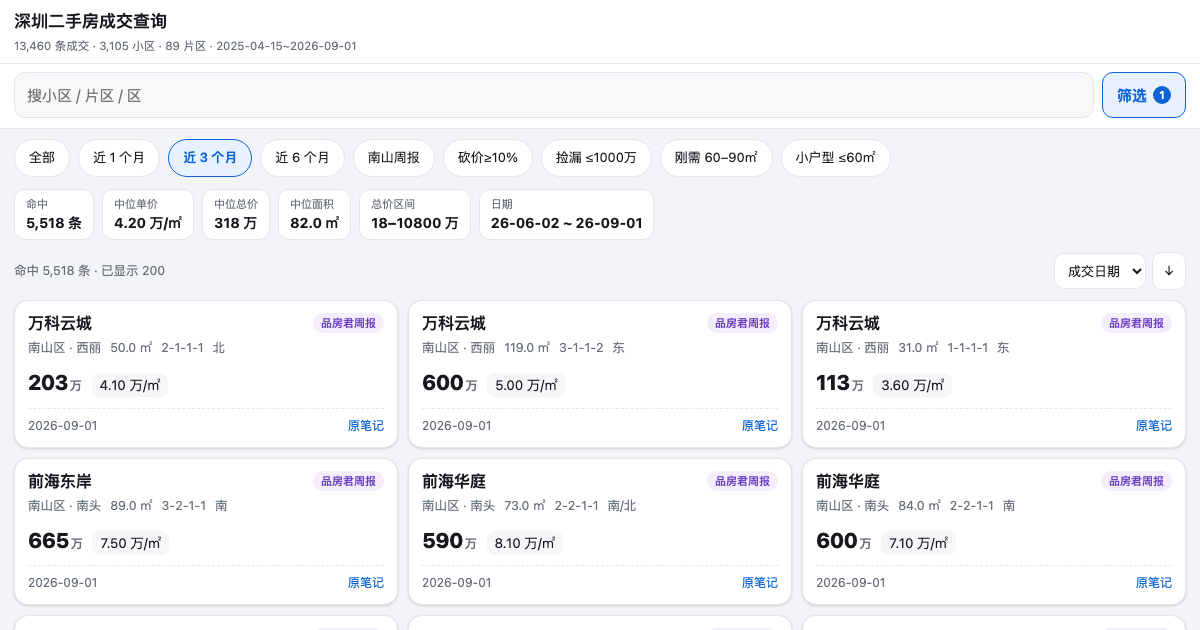
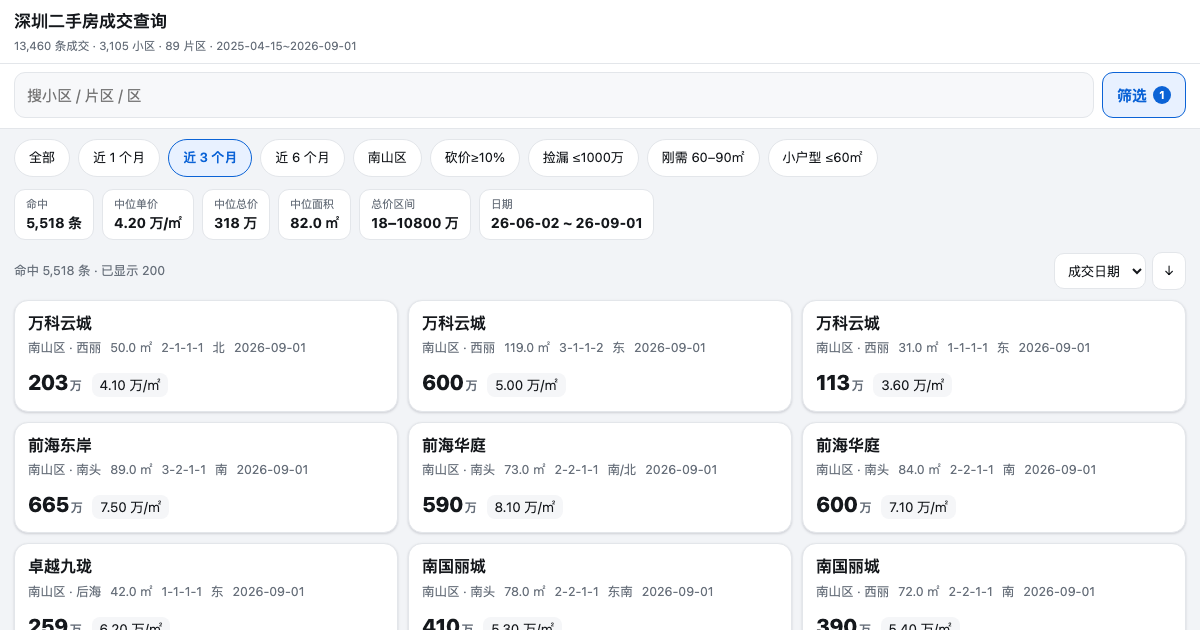
发布成交查询站点（13460 条记录）
数据来源与生成链路见 README.md；站点内容由 tools/xhs_pipeline/build_web.py 生成。

diff --git a/core.js b/core.js
@@ -23,7 +23,7 @@ export function roomsOf(layout) {
 }
 
 export const DEFAULTS = {
-  q: '', districts: [], area_groups: [], sources: [], rooms: [], facings: [],
+  q: '', districts: [], area_groups: [], rooms: [], facings: [],
   dateFrom: '', dateTo: '',
   areaMin: null, areaMax: null, totalMin: null, totalMax: null,
   unitMin: null, unitMax: null, builtMin: null, builtMax: null,
@@ -40,7 +40,7 @@ function passes(r, f, dict, roomCache) {
   if (f.onlyDupCandidates && !(r[C.dup_candidates] > 0)) return false;
   if (f.districts.length && !f.districts.includes(r[C.district])) return false;
   if (f.area_groups.length && !f.area_groups.includes(r[C.area_group])) return false;
-  if (f.sources.length && !f.sources.includes(r[C.source])) return false;
+  if (f.sources && f.sources.length && !f.sources.includes(r[C.source])) return false;
   if (f.facings.length) {   // facings 存的是方位位掩码（0=未标注），组合朝向按位命中
     const m = (dict.facing_mask && dict.facing_mask[r[C.facing]]) || 0;
     const orBits = f.facings.reduce((a, b) => a | b, 0);
@@ -127,17 +127,14 @@ export function summarize(rows, dict) {
   if (!rows.length) {
     return { count: 0, medianUnit: null, meanUnit: null, medianArea: null, minArea: null, maxArea: null,
       medianTotal: null, minTotal: null, maxTotal: null, dateFrom: null, dateTo: null,
-      bySource: {}, byDistrict: {} };
+      byDistrict: {} };
   }
   const units = rows.map((r) => r[C.unit]);
   const areas = rows.map((r) => r[C.area]);
   const totals = rows.map((r) => r[C.total]);
   const dates = rows.map((r) => r[C.date]).filter(Boolean).sort();
-  const bySource = {};
   const byDistrict = {};
   for (const r of rows) {
-    const s = dict.source[r[C.source]] || '-';
-    bySource[s] = (bySource[s] || 0) + 1;
     const d = dict.district[r[C.district]] || '-';
     byDistrict[d] = (byDistrict[d] || 0) + 1;
   }
@@ -147,12 +144,12 @@ export function summarize(rows, dict) {
     medianArea: median(areas), minArea: extent(areas, Math.min), maxArea: extent(areas, Math.max),
     medianTotal: median(totals), minTotal: extent(totals, Math.min), maxTotal: extent(totals, Math.max),
     dateFrom: dates[0] || null, dateTo: dates[dates.length - 1] || null,
-    bySource, byDistrict,
+    byDistrict,
   };
 }
 
-const CSV_HEAD = ['成交日期', '来源', '统计期', '行政区', '片区', '小区', '建成年份', '户型',
-  '面积(㎡)', '总价(万)', '单价(万/㎡)', '谈价率(%)', '朝向', '重复标记', '来源笔记'];
+const CSV_HEAD = ['成交日期', '统计期', '行政区', '片区', '小区', '建成年份', '户型',
+  '面积(㎡)', '总价(万)', '单价(万/㎡)', '谈价率(%)', '朝向', '重复标记'];
 
 export function toCSV(rows, dict) {
   const esc = (v) => {
@@ -162,14 +159,13 @@ export function toCSV(rows, dict) {
   const lines = [CSV_HEAD.join(',')];
   for (const r of rows) {
     const conf = dict.dup_conf[r[C.dup_conf]];
-    const mark = [conf ? `与另一来源重复(${conf})` : '', r[C.dup_candidates] > 0 ? `可能重复x${r[C.dup_candidates]}` : '']
+    const mark = [conf ? `疑似同一笔重复(${conf})` : '', r[C.dup_candidates] > 0 ? `可能重复x${r[C.dup_candidates]}` : '']
       .filter(Boolean).join('/');
     lines.push([
-      r[C.date], dict.source[r[C.source]], dict.period[r[C.period]] ? dict.period[r[C.period]].label : '',
+      r[C.date], dict.period[r[C.period]] ? dict.period[r[C.period]].label : '',
       dict.district[r[C.district]], dict.area_group[r[C.area_group]], dict.community[r[C.community]],
       r[C.built_year], dict.layout[r[C.layout]], r[C.area], r[C.total], r[C.unit], r[C.neg],
       dict.facing[r[C.facing]], mark,
-      dict.note[r[C.note]] ? dict.note[r[C.note]].url : '',
     ].map(esc).join(','));
   }
   return lines.join('\n');

diff --git a/app.js b/app.js
@@ -83,7 +83,6 @@ function bindDate(id, key) {
 
 function initControls() {
   chipGroup($('#districts'), DICT.district.map((_, i) => i), 'districts', DICT.district);
-  chipGroup($('#sources'), DICT.source.map((_, i) => i), 'sources', DICT.source);
   chipGroup($('#rooms'), [1, 2, 3, 4, 5, 6], 'rooms', ['1室', '2室', '3室', '4室', '5室', '6室+']);
   // 朝向按位掩码：东1 南2 西4 北8 东南16 西南32 东北64 西北128，0=未标注
   chipGroup($('#facings'), [0, 1, 2, 4, 8, 16, 32, 64, 128], 'facings',
@@ -178,7 +177,7 @@ function openSheet(open) {
 
 function activeFilterCount() {
   let n = 0;
-  for (const k of ['districts', 'area_groups', 'sources', 'rooms', 'facings']) if (FILTERS[k].length) n++;
+  for (const k of ['districts', 'area_groups', 'rooms', 'facings']) if ((FILTERS[k] || []).length) n++;
   for (const k of [...NUM_FIELDS, 'dateFrom', 'dateTo']) if (FILTERS[k] !== null && FILTERS[k] !== '') n++;
   if (FILTERS.dedupe !== 'raw') n++;
   if (FILTERS.onlyDupCandidates) n++;
@@ -196,7 +195,7 @@ function applyPreset(name) {
   if (name === 'recent30') f.dateFrom = shiftDate(30);
   if (name === 'recent90') f.dateFrom = shiftDate(90);
   if (name === 'recent180') f.dateFrom = shiftDate(180);
-  if (name === 'nanshan-weekly') f.sources = [DICT.source.indexOf('品房君周报')];
+  if (name === 'nanshan') f.districts = [DICT.district.indexOf('南山区')];
   if (name === 'haggle10') f.negMax = -10;
   if (name === 'small') f.areaMax = 60;
   if (name === 'core90') { f.areaMin = 60; f.areaMax = 90; }
@@ -233,8 +232,8 @@ function markOf(r) {
   if (!conf && !n) return null;
   const s = el('span', 'mark', conf ? (conf === 'high' ? '重复' : '疑似重复') : '可能重复');
   s.title = conf
-    ? `与另一来源的记录判为同一笔（置信度 ${conf}），可切换去重口径排除`
-    : `另有 ${n} 条来自另一来源的候选记录，但无法证实是否同一笔`;
+    ? `可能与其他记录为同一笔成交（置信度 ${conf}），可切换「去重口径」排除`
+    : `另有 ${n} 条疑似同一笔成交的记录，但无法证实`;
   return s;
 }
 
@@ -250,8 +249,7 @@ function card(r) {
     update();
     window.scrollTo({ top: 0, behavior: 'smooth' });
   });
-  top.append(name, el('span', `badge ${r[C.source] === DICT.source.indexOf('行舟双周') ? 'b-a' : 'b-b'}`,
-    DICT.source[r[C.source]]));
+  top.append(name);
   a.append(top);
 
   const meta = el('div', 'meta');
@@ -261,6 +259,7 @@ function card(r) {
     DICT.layout[r[C.layout]],
     DICT.facing[r[C.facing]],
     r[C.built_year] ? `${fmtInt(r[C.built_year])} 年建成` : null,
+    r[C.date] || null,
   ].filter(Boolean);
   for (const p of parts) meta.append(el('span', null, p));
   a.append(meta);
@@ -276,21 +275,12 @@ function card(r) {
   }
   a.append(price);
 
-  const foot = el('div', 'foot');
-  foot.append(el('span', null, r[C.date] || '—'));
-  const right = el('span');
   const m = markOf(r);
-  if (m) right.append(m, document.createTextNode(' '));
-  if (DICT.note[r[C.note]]) {
-    const link = el('a', 'link', '原笔记');
-    link.href = DICT.note[r[C.note]].url;
-    link.target = '_blank';
-    link.rel = 'noopener';
-    link.title = `${DICT.note[r[C.note]].title}（${DICT.note[r[C.note]].author}）`;
-    right.append(link);
+  if (m) {
+    const foot = el('div', 'foot');
+    foot.append(el('span', null, ''), m);
+    a.append(foot);
   }
-  foot.append(right);
-  a.append(foot);
   return a;
 }
 

diff --git a/index.html b/index.html
@@ -136,7 +136,7 @@ input[type=text],input[type=number],input[type=date]{width:100%;padding:11px 12p
   <button data-preset="recent30">近 1 个月</button>
   <button data-preset="recent90">近 3 个月</button>
   <button data-preset="recent180">近 6 个月</button>
-  <button data-preset="nanshan-weekly">南山周报</button>
+  <button data-preset="nanshan">南山区</button>
   <button data-preset="haggle10">砍价≥10%</button>
   <button data-preset="bargain-hunt">捡漏 ≤1000万</button>
   <button data-preset="core90">刚需 60–90㎡</button>
@@ -178,12 +178,12 @@ input[type=text],input[type=number],input[type=date]{width:100%;padding:11px 12p
 <div class="note">
   <details>
     <summary>数据说明与口径</summary>
-    <p>来自小红书两位博主的公开成交整理：<em>行舟深房笔记</em>（全市半月）与 <em>深圳品房君</em>（南山周报），
-    经表格截图 OCR 与一致性校验结构化，<strong>非官方备案数据</strong>。</p>
-    <p>行舟口径为部分大中介成交，含少量公寓/商办/宿舍；双拼房源可能被拆成两条（需相加）。
-    品房君周报无逐行成交日期，这里用统计期起始日代替，且无谈价率。</p>
-    <p>「谈价率」= 相对最后一次挂盘价的差值（负数即砍价）。「可能重复」表示另一来源有候选记录、
-    但无法证实是否同一笔（判定依据见数据集 QUALITY 文档）。</p>
+    <p>本页为<strong>公开渠道整理的成交记录汇编</strong>，经图表识别与一致性校验后结构化，<strong>非官方备案数据</strong>。
+    样本覆盖面有限，请以价格分布与趋势为主要参考，不要当作全市成交量。</p>
+    <p>部分记录来自大型中介的成交整理，含少量公寓/商办/宿舍；双拼房源可能被拆成两条（需相加）。
+    部分记录没有逐行成交日期，用其统计期的起始日代替。</p>
+    <p>「谈价率」= 相对最后一次挂盘价的差值（负数即砍价）。「可能重复」表示可能存在同一笔成交的另一条记录，
+    可用上方「去重口径」切换是否排除。</p>
   </details>
 </div>
 
@@ -221,7 +221,7 @@ input[type=text],input[type=number],input[type=date]{width:100%;padding:11px 12p
           <span>~</span><input id="builtMax" type="number" inputmode="numeric" placeholder="如 2020"></div>
       </div>
       <div class="field span2">
-        <label>谈价率 %（负数=砍价，仅行舟有）</label>
+        <label>谈价率 %（负数=砍价）</label>
         <div class="rng"><input id="negMin" type="number" inputmode="decimal" placeholder="如 -30">
           <span>~</span><input id="negMax" type="number" inputmode="decimal" placeholder="如 -10"></div>
       </div>
@@ -234,11 +234,7 @@ input[type=text],input[type=number],input[type=date]{width:100%;padding:11px 12p
         <div class="chips" id="rooms"></div>
       </div>
       <div class="field span2">
-        <label class="legend">来源</label>
-        <div class="chips" id="sources"></div>
-      </div>
-      <div class="field span2">
-        <label class="legend">朝向（仅品房君有）</label>
+        <label class="legend">朝向</label>
         <div class="chips" id="facings"></div>
       </div>
       <div class="field span2">
